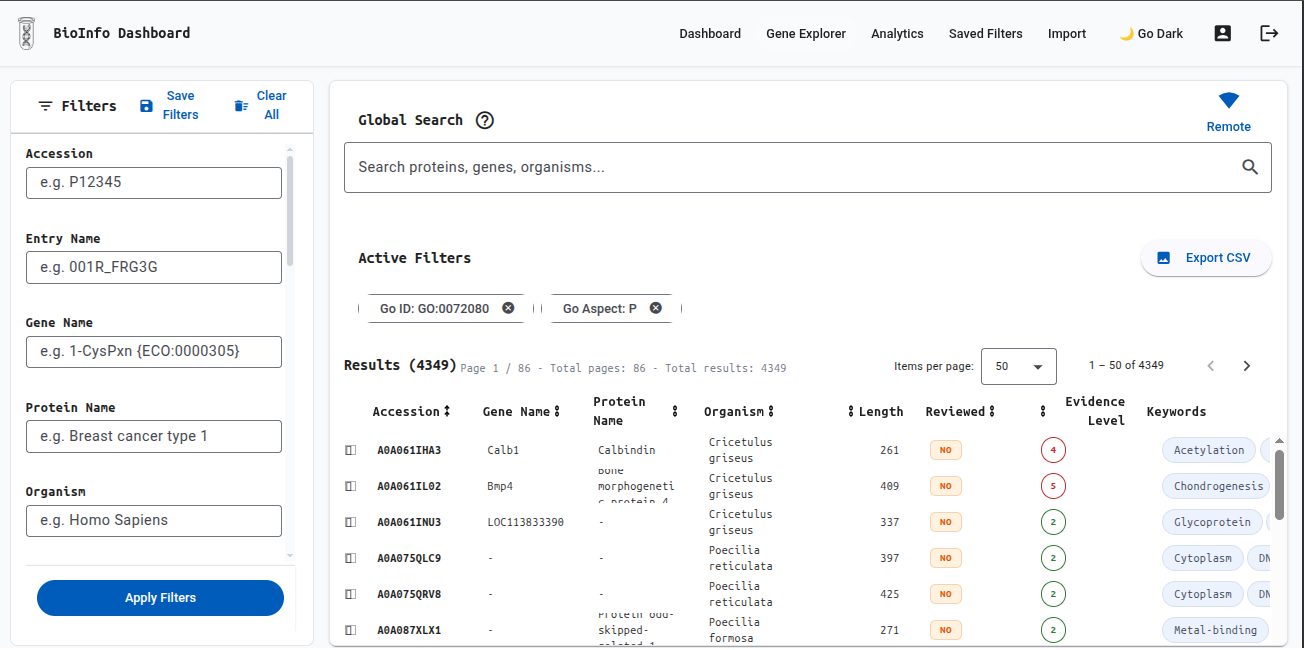
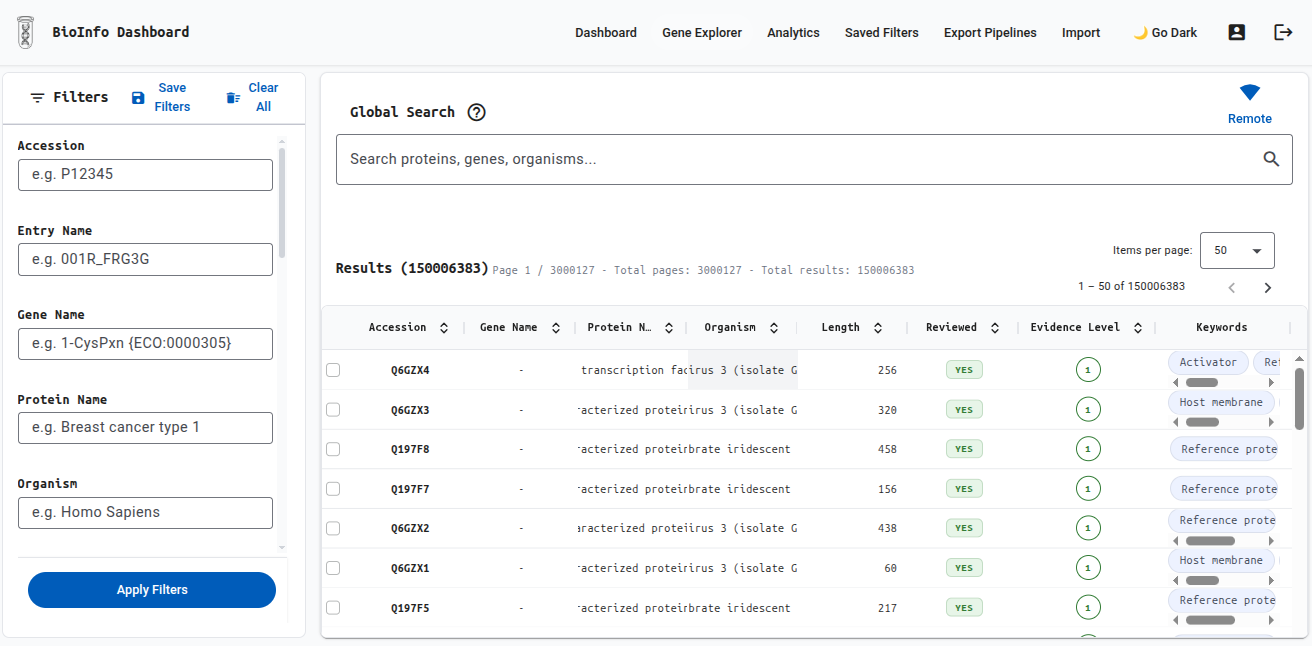
PIPE-001 - Update Readme.md

diff --git a/README.md b/README.md
@@ -1,6 +1,6 @@
 # Bioinformatics Analytics Dashboard
 
-> **v2.0** — Explore, visualize, and analyze **UniProt protein/gene data** from both **remote UniProt.org API** (150M+
+> **v2.1** — Explore, visualize, and analyze **UniProt protein/gene data** from both **remote UniProt.org API** (150M+
 > entries)
 > and **local database** (570K+ entries). Filter, import, visualize, and export — all in one unified platform.
 > Built with **Angular 21**, **Spring Boot 4**, and **PostgreSQL 16**.
@@ -12,7 +12,7 @@
 |------------------------------------------------------------------------------------------------|----------------------------------------------------------------------------------------------|
 | 🌐 **Remote Explore** 150+ million UniProt proteins directly from UniProt.org API              | 📊 **Visualize** protein distributions via histograms, bar charts, pie charts, and KPI cards |
 | 🔬 **Local Explore** 570K+ imported UniProt entries with advanced multi-field search & filters | 📥 **Import** remote data into local PostgreSQL with live progress tracking                  |
-| 💾 **Export** filtered results (local or remote) as RFC 4180 CSV                               | 🔖 **Save** and reload filter combinations across sessions                                   |
+| 💾 **Export** filtered datasets through asynchronous pipelines as CSV, TSV, JSON, or Excel    | 🔖 **Save** and reload filter combinations across sessions                                   |
 | 🌙 **Dark Mode** Full dark theme support for comfortable extended exploration                  | 🔐 **Update Password** Secure user profile management with password reset                    |
 | 📋 **Inspect** full protein detail: sequence, GO terms, features, cross-references             | ⚡ **Filter Remote Data** Apply 15+ filter dimensions to 150M UniProt entries in real-time   |
 
@@ -23,6 +23,11 @@
 ### Login
 
 ![Login Screen](documentation/implementation/AUTH-001/login-screen.png)
+
+### Dashboard
+
+![Dashboard-01](documentation/implementation/DASH-001/dashboard-screen-01.png)
+![Dashboard-02](documentation/implementation/DASH-001/dashboard-screen-02.png)
 
 ### Gene Explorer — Search & Browse
 
@@ -36,15 +41,6 @@
 
 ![Protein Detail](documentation/implementation/DETAIL-001/gene-detail-summary.png)
 
-### Import Admin — Progress Monitoring
-
-![Import Admin](documentation/implementation/IMPORT-001/import-admin-screen.png)
-
-### Dashboard
-
-![Dashboard-01](documentation/implementation/DASH-001/dashboard-screen-01.png)
-![Dashboard-02](documentation/implementation/DASH-001/dashboard-screen-02.png)
-
 ### Analytics
 
 ![Analytics-01](documentation/implementation/ANALYTICS-001/analytics-1.png)
@@ -54,6 +50,23 @@
 
 ![Compare-01](documentation/implementation/COMPARE-001/compare-01.png)
 ![Compare-02](documentation/implementation/COMPARE-001/compare-02.png)
+
+### Saved Filters
+
+![Saved-Filters](documentation/implementation/FILTER-001/saved-filters.png)
+
+### Export Data Via Pipeline
+
+![Export-01](documentation/implementation/PIPE-001/export-steps.jpg)
+![Export-02](documentation/implementation/PIPE-001/export-table.png)
+
+### Import Admin — Progress Monitoring
+
+![Import Admin](documentation/implementation/IMPORT-001/import-admin-screen.png)
+
+### Account Settings
+
+![Account Screen](documentation/implementation/AUTH-001/account-settings.png)
 
 ---
 
@@ -118,12 +131,13 @@ cd frontend && npm install && npm start        # http://localhost:4200
 
 ```
 backend/dashboard       → Spring Boot (controller → service → repository → dto)
+backend/services/export-service/ → Export microservice: pipelines, batch jobs, CSV/TSV/JSON/Excel writers
 frontend/               → Angular features: dashboard, genes, analytics, import-admin, auth
 documentation/          → Specs: api-contract, domain-model, validation-rules, overview
 devops/                 → Dockerfiles, nginx config, shell scripts
 ```
 
-Full details in [`documentation/`](documentation/).
+Full details in [`documentation/`](documentation).
 ---
 
 ## ⚡ Performance Targets
@@ -140,7 +154,7 @@ Full details in [`documentation/`](documentation/).
 
 ---
 
-## 🎯 v2.0 Key Features
+## 🎯 v2.1 Key Features
 
 ### Remote Data Access
 
@@ -156,11 +170,27 @@ Full details in [`documentation/`](documentation/).
 - **Real-time progress** — live import tracking with cancel support
 - **Materialized views** — pre-aggregated analytics for instant dashboard KPIs
 
+### Export Data Microservice
+
+The dedicated **Export Service** (`backend/services/export-service`) manages
+asynchronous data exports through configurable pipelines, powered by Spring Batch.
+
+- **Multiple formats** — export datasets as CSV, TSV, JSON, or Excel.
+- **Configurable pipelines** — define dataset filters and select fields to include.
+- **Background processing** — generate export files without blocking interactive requests.
+- **Progress monitoring** — track job status, completion percentage, and batch progress.
+- **Pipeline management** — browse export history, inspect details, retry failed or
+  cancelled exports, and delete pipelines.
+- **Authenticated downloads** — download completed files through endpoints requiring
+  a User or Admin role.
+
+**API base path:** `/api/v1/exports`
+
 ### User Experience
 
 - **🌙 Dark Mode** — full UI theme toggle for comfortable nighttime browsing
 - **🔐 Password Management** — secure profile updates and password reset workflows
-- **💾 CSV Export** — download filtered datasets (up to 100K rows) in RFC 4180 CSV format
+- **💾 Data Export Via Pipeline** — download filtered datasets in multiple formats : CSV, TSV, JSON & Excel
 - **📌 Saved Filters** — persist and reload custom filter combinations for repeated queries
 - **Responsive design** — works seamlessly on desktop, tablet, and mobile devices
 
